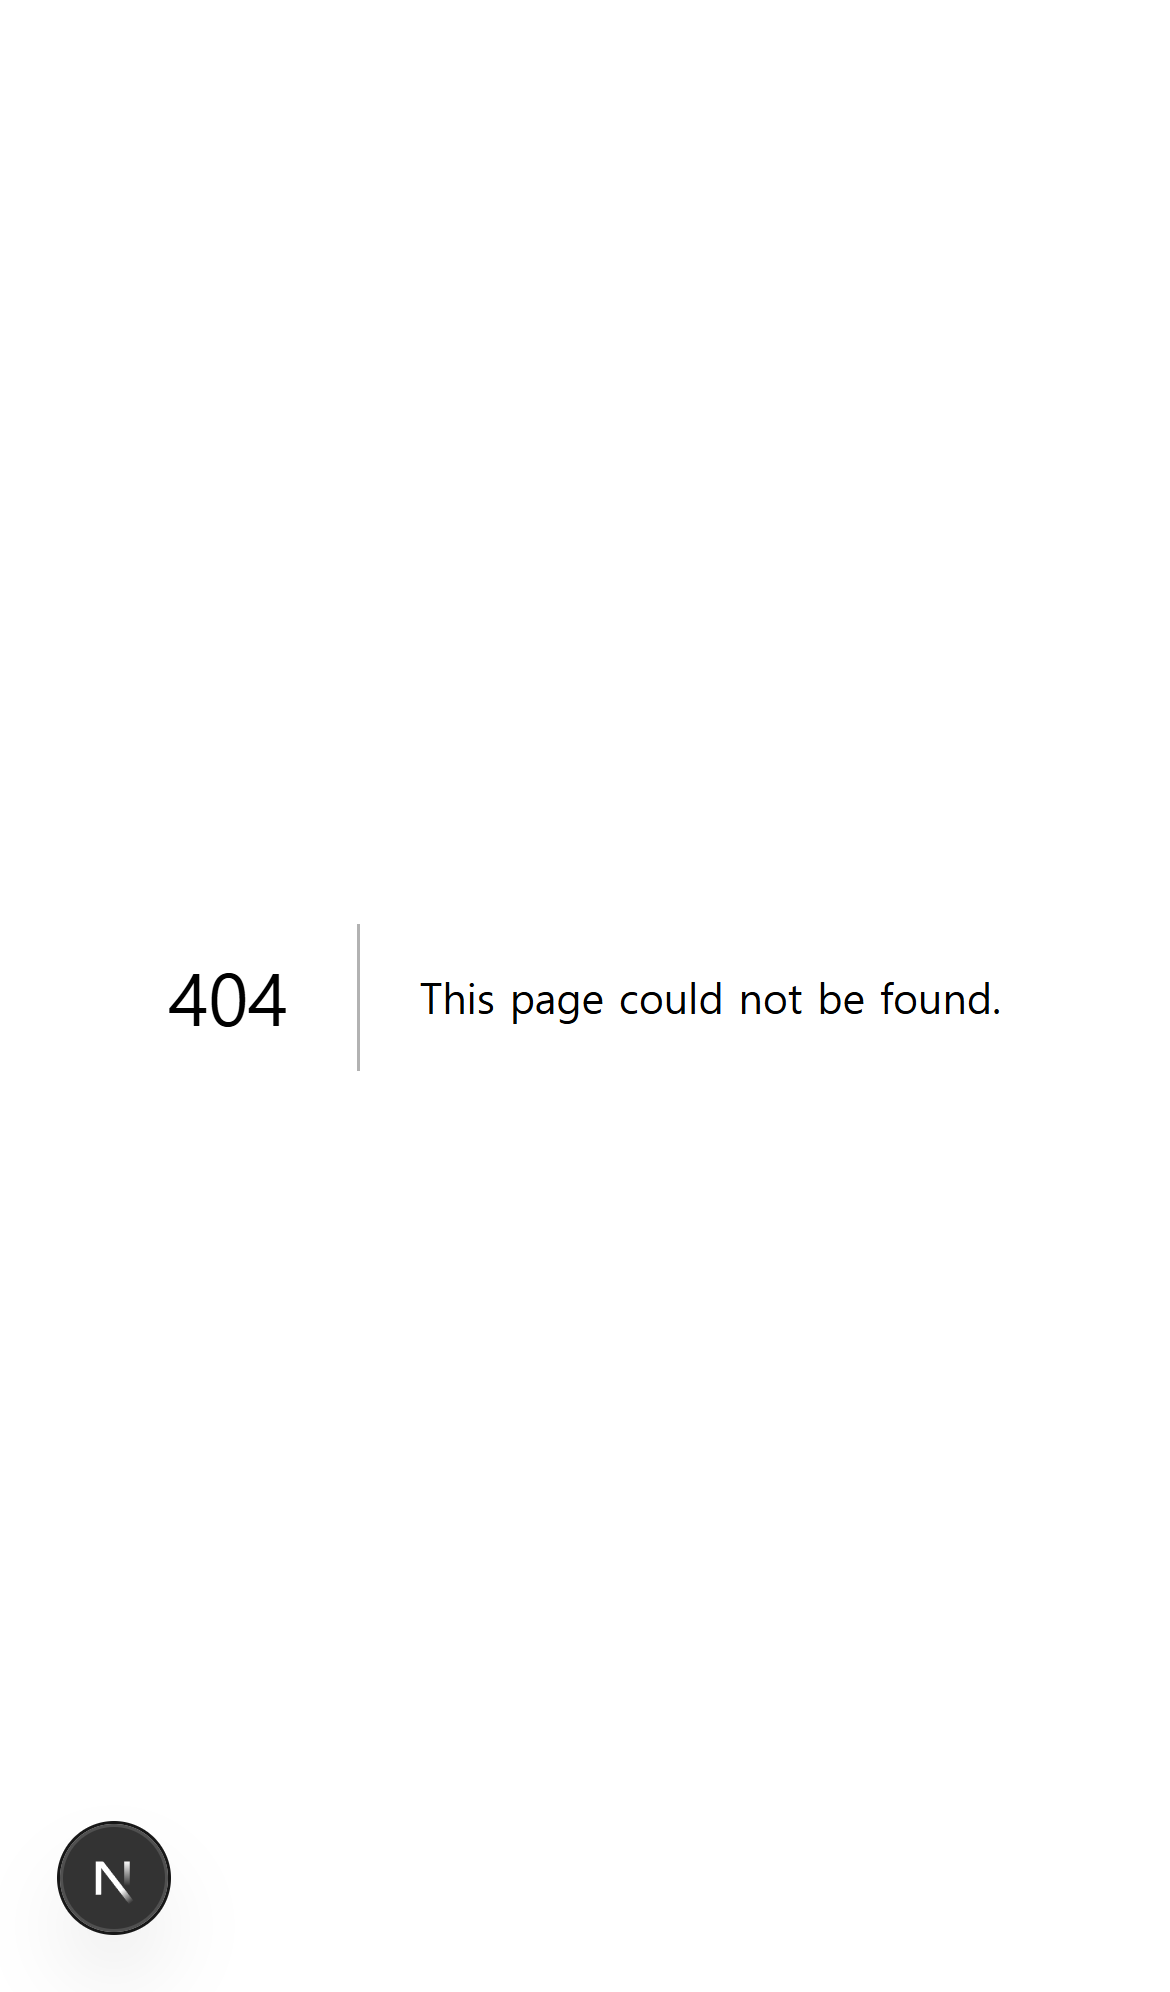
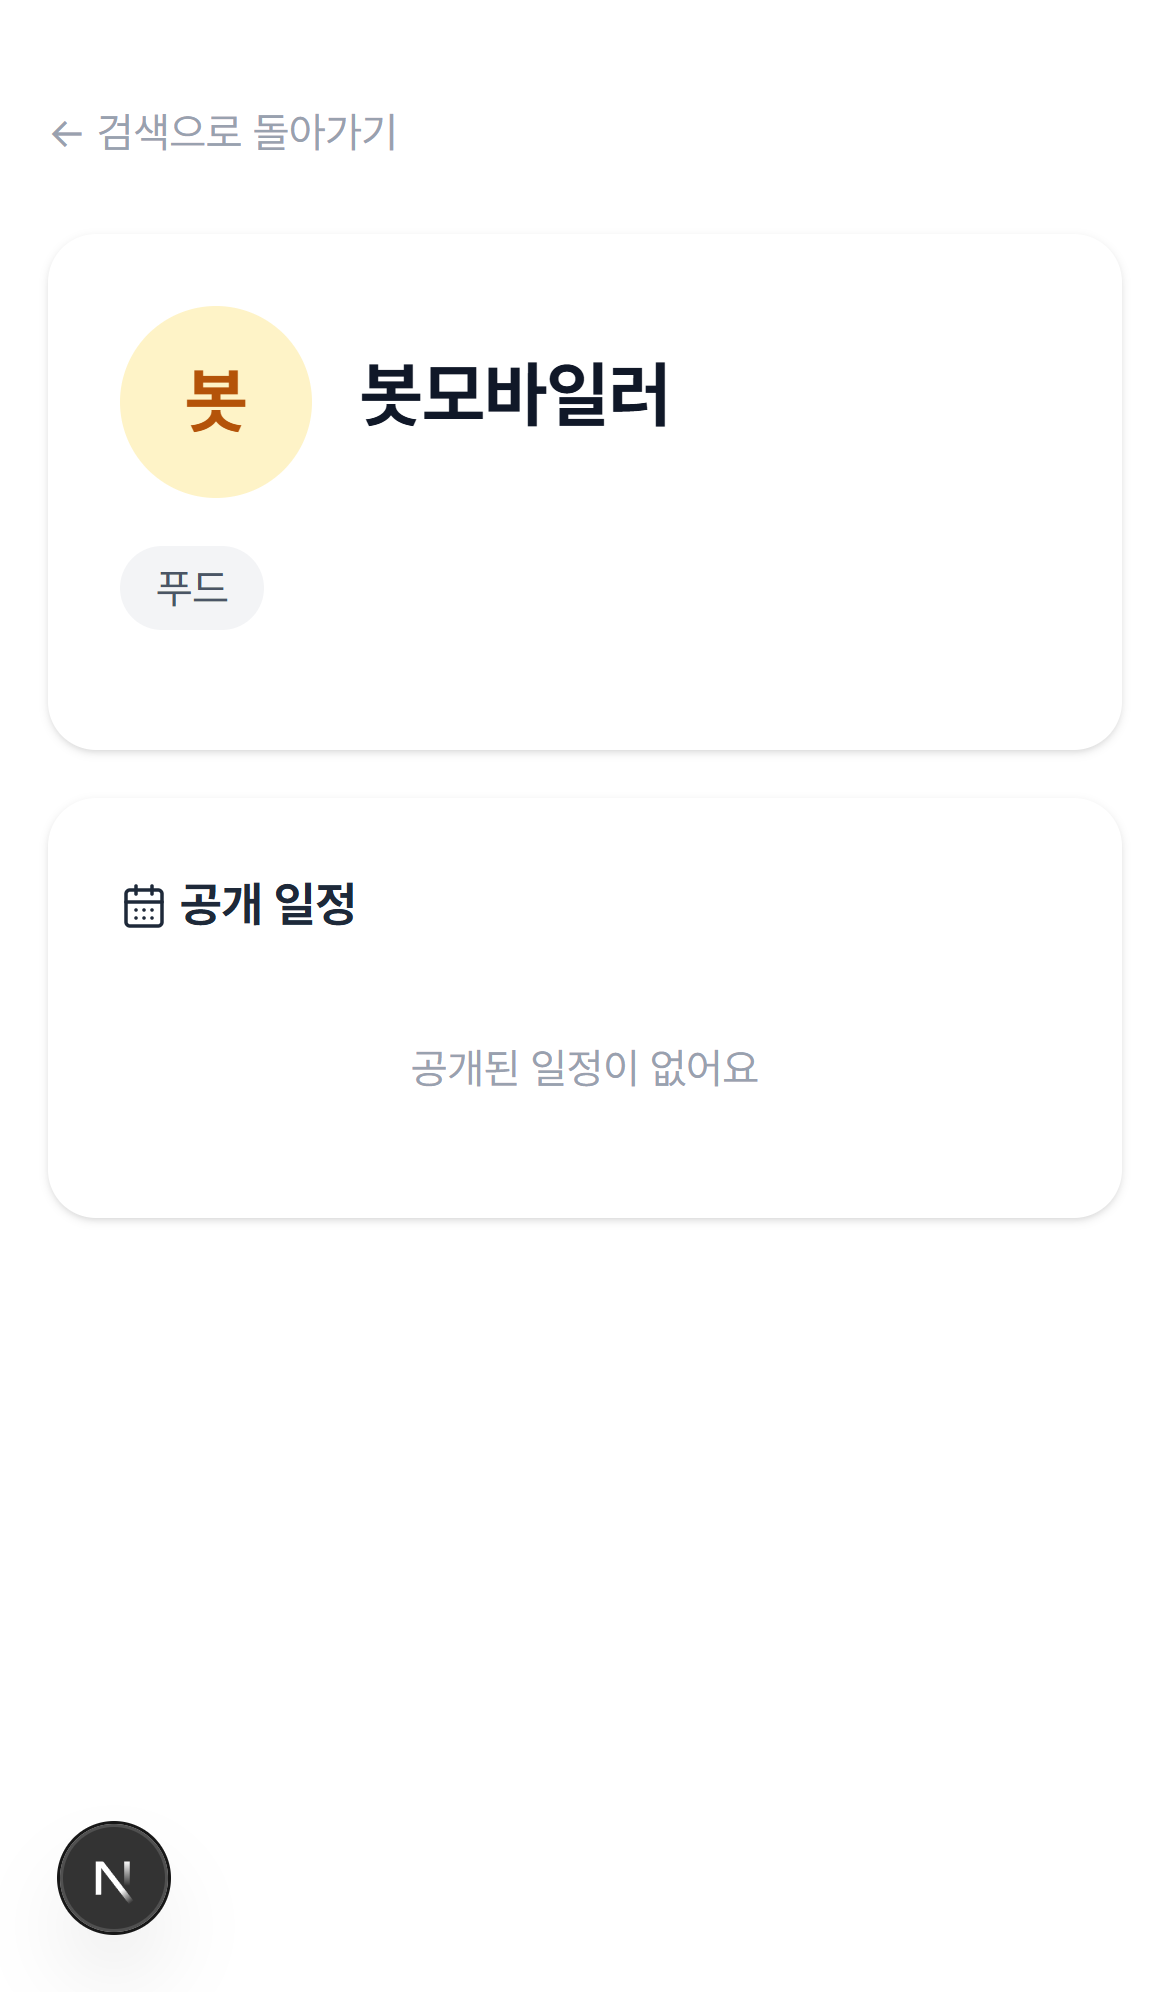
fix(D31): 공개 인플루언서 프로필 404 — params 를 Promise 로 받는다
Next 16 에서 params 는 Promise 인데 이 페이지만 동기로 선언해 params.id 가
undefined 였다. 조회가 늘 빈손이라 로그인 여부와 무관하게 notFound() 로 떨어졌고,
인플루언서가 자기 프로필 링크를 밖에 뿌려도 받는 쪽엔 「없는 페이지」가 떴다.
동적 페이지 14개 중 이 한 곳만 그랬다(11개는 이미 Promise, 2개는 useParams 쓰는
클라이언트 컴포넌트).

28-mobile-back.spec.ts 셋째 테스트를 기록에서 감시로 바꿨다 — finding() 을 빼고
HTTP 200 단정만 남겨, 다시 동기로 돌아가면 여기서 잡히게 했다.

diff --git a/tests/e2e/28-mobile-back.spec.ts b/tests/e2e/28-mobile-back.spec.ts
@@ -1,7 +1,7 @@
 import { devices, expect, test, type Browser, type Page } from '@playwright/test'
 import fs from 'fs'
 import path from 'path'
-import { PASSWORD, ROOT, finding, serviceClient } from './_helpers'
+import { PASSWORD, ROOT, serviceClient } from './_helpers'
 
 // D31 [1] — 「뒤로가기를 누르면 로그인 페이지로 튄다」.
 //
@@ -128,21 +128,10 @@ test('[D31-1] 로그인 없이 공개 인플루언서 페이지가 열린다', a
     // ① 미들웨어가 삼키지 않는다 — 고쳤다.
     expect(page.url(), '공개 프로필인데 로그인으로 보내면 결함이다').not.toContain('/login')
 
-    // ② 그런데 화면이 실제로 나오지는 않는다 — 여기는 아직 실패한다(고치면 통과로 바뀐다).
-    //    이 페이지만 params 를 Promise 로 안 받는다: `params: { id: string }` 로 선언하고
-    //    params.id 를 그대로 쓴다(influencer/[id]/page.tsx:12,19,28). Next 16 에서 params 는
-    //    Promise 라 .id 가 undefined 가 되고, 조회가 빈손이 되어 notFound() 로 떨어진다.
-    //    같은 id 로 /profile/[id](Promise 로 받음)는 200 이다 — 데이터 문제가 아니라 이 선언 하나다.
-    if (res?.status() !== 200) {
-      finding(
-        '결함',
-        '공개 인플루언서 프로필 /influencer/[id]',
-        '로그인 여부와 무관하게 404 입니다. 이 페이지만 params 를 Promise 로 받지 않아 ' +
-          '(influencer/[id]/page.tsx:12) params.id 가 undefined 가 되고, 조회가 빈손이라 notFound() 로 갑니다. ' +
-          '같은 id 로 /profile/[id] 는 200 입니다 — 데이터가 아니라 선언 한 줄 차이입니다. ' +
-          '결과: 인플루언서가 자기 프로필 링크를 밖에 뿌려도 받는 쪽엔 「없는 페이지」가 뜹니다.',
-      )
-    }
+    // ② 화면이 실제로 그려진다.
+    //    전에는 이 페이지만 params 를 동기로 받아(`params: { id: string }`) .id 가 undefined 였고,
+    //    조회가 빈손이라 notFound() 로 떨어졌다. Promise 로 받고 await 하게 고쳤다.
+    //    이 두 줄이 다시 동기로 돌아가면 여기서 404 로 잡힌다.
     expect(res?.status(), '공개 프로필이 404 다 — params 를 await 하지 않아서다').toBe(200)
     if (name) await expect(page.getByRole('heading', { name })).toBeVisible()
   } finally {

diff --git a/src/app/influencer/[id]/page.tsx b/src/app/influencer/[id]/page.tsx
@@ -9,14 +9,17 @@ import DashSendButton from '@/components/DashSendButton'
 export default async function InfluencerProfilePage({
   params,
 }: {
-  params: { id: string }
+  // Next 16 에서 params 는 Promise 다. 이 페이지만 동기로 받아 params.id 가 undefined 였고,
+  // 조회가 늘 빈손이라 로그인 여부와 무관하게 notFound() — 밖에 뿌린 프로필 링크가 「없는 페이지」였다.
+  params: Promise<{ id: string }>
 }) {
+  const { id } = await params
   const supabase = await createClient()
 
   const { data: profile } = await supabase
     .from('profiles')
     .select('*')
-    .eq('id', params.id)
+    .eq('id', id)
     .eq('role', 'influencer')
     .single()
 
@@ -25,13 +28,13 @@ export default async function InfluencerProfilePage({
   const { data: influencerProfile } = await supabase
     .from('influencer_profiles')
     .select('*')
-    .eq('user_id', params.id)
+    .eq('user_id', id)
     .single()
 
   const { data: schedules } = await supabase
     .from('schedules')
     .select('*')
-    .eq('influencer_id', params.id)
+    .eq('influencer_id', id)
     .eq('is_public', true)
     .eq('status', 'open')
     .gte('date', new Date().toISOString().split('T')[0])
